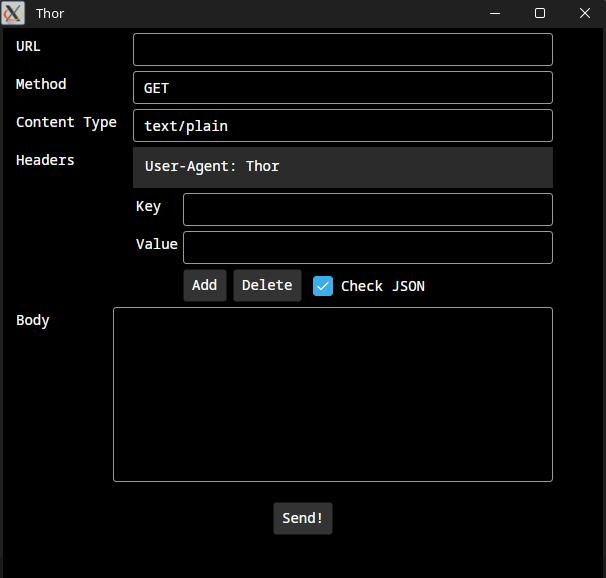
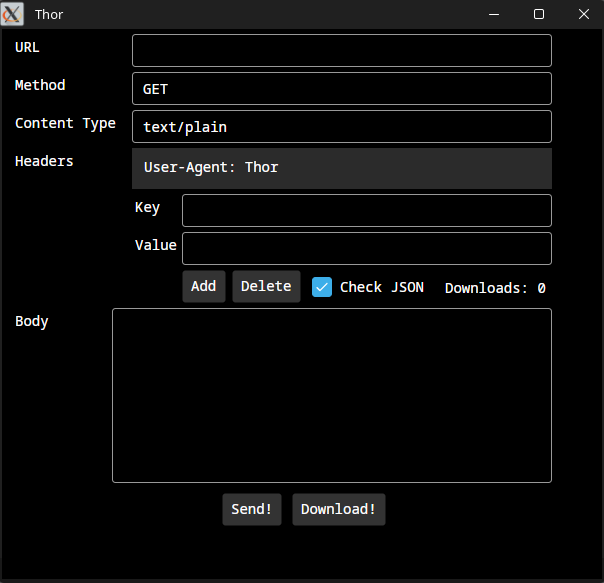
Update screenshot

diff --git a/README.md b/README.md
@@ -31,8 +31,12 @@ Once built, you can start the application by running the executable located in `
 
 The executable is called `Thor` or `Thor.exe` if you are running on Windows.
 
-You should be familiar with HTTP requests and responses to use Thor effectively.
+You should be familiar with the HTTP protocol.
 
 The Check JSON checkbox is only active if the Content-Type is set to contain `json`, most commonly `application/json`.
 
 Otherwise, it will not check the JSON body.
+
+The send-button is used for simply sending an HTTP Request and displaying response data in a separate window.
+
+The download-button is used for downloading the response body to a file.
